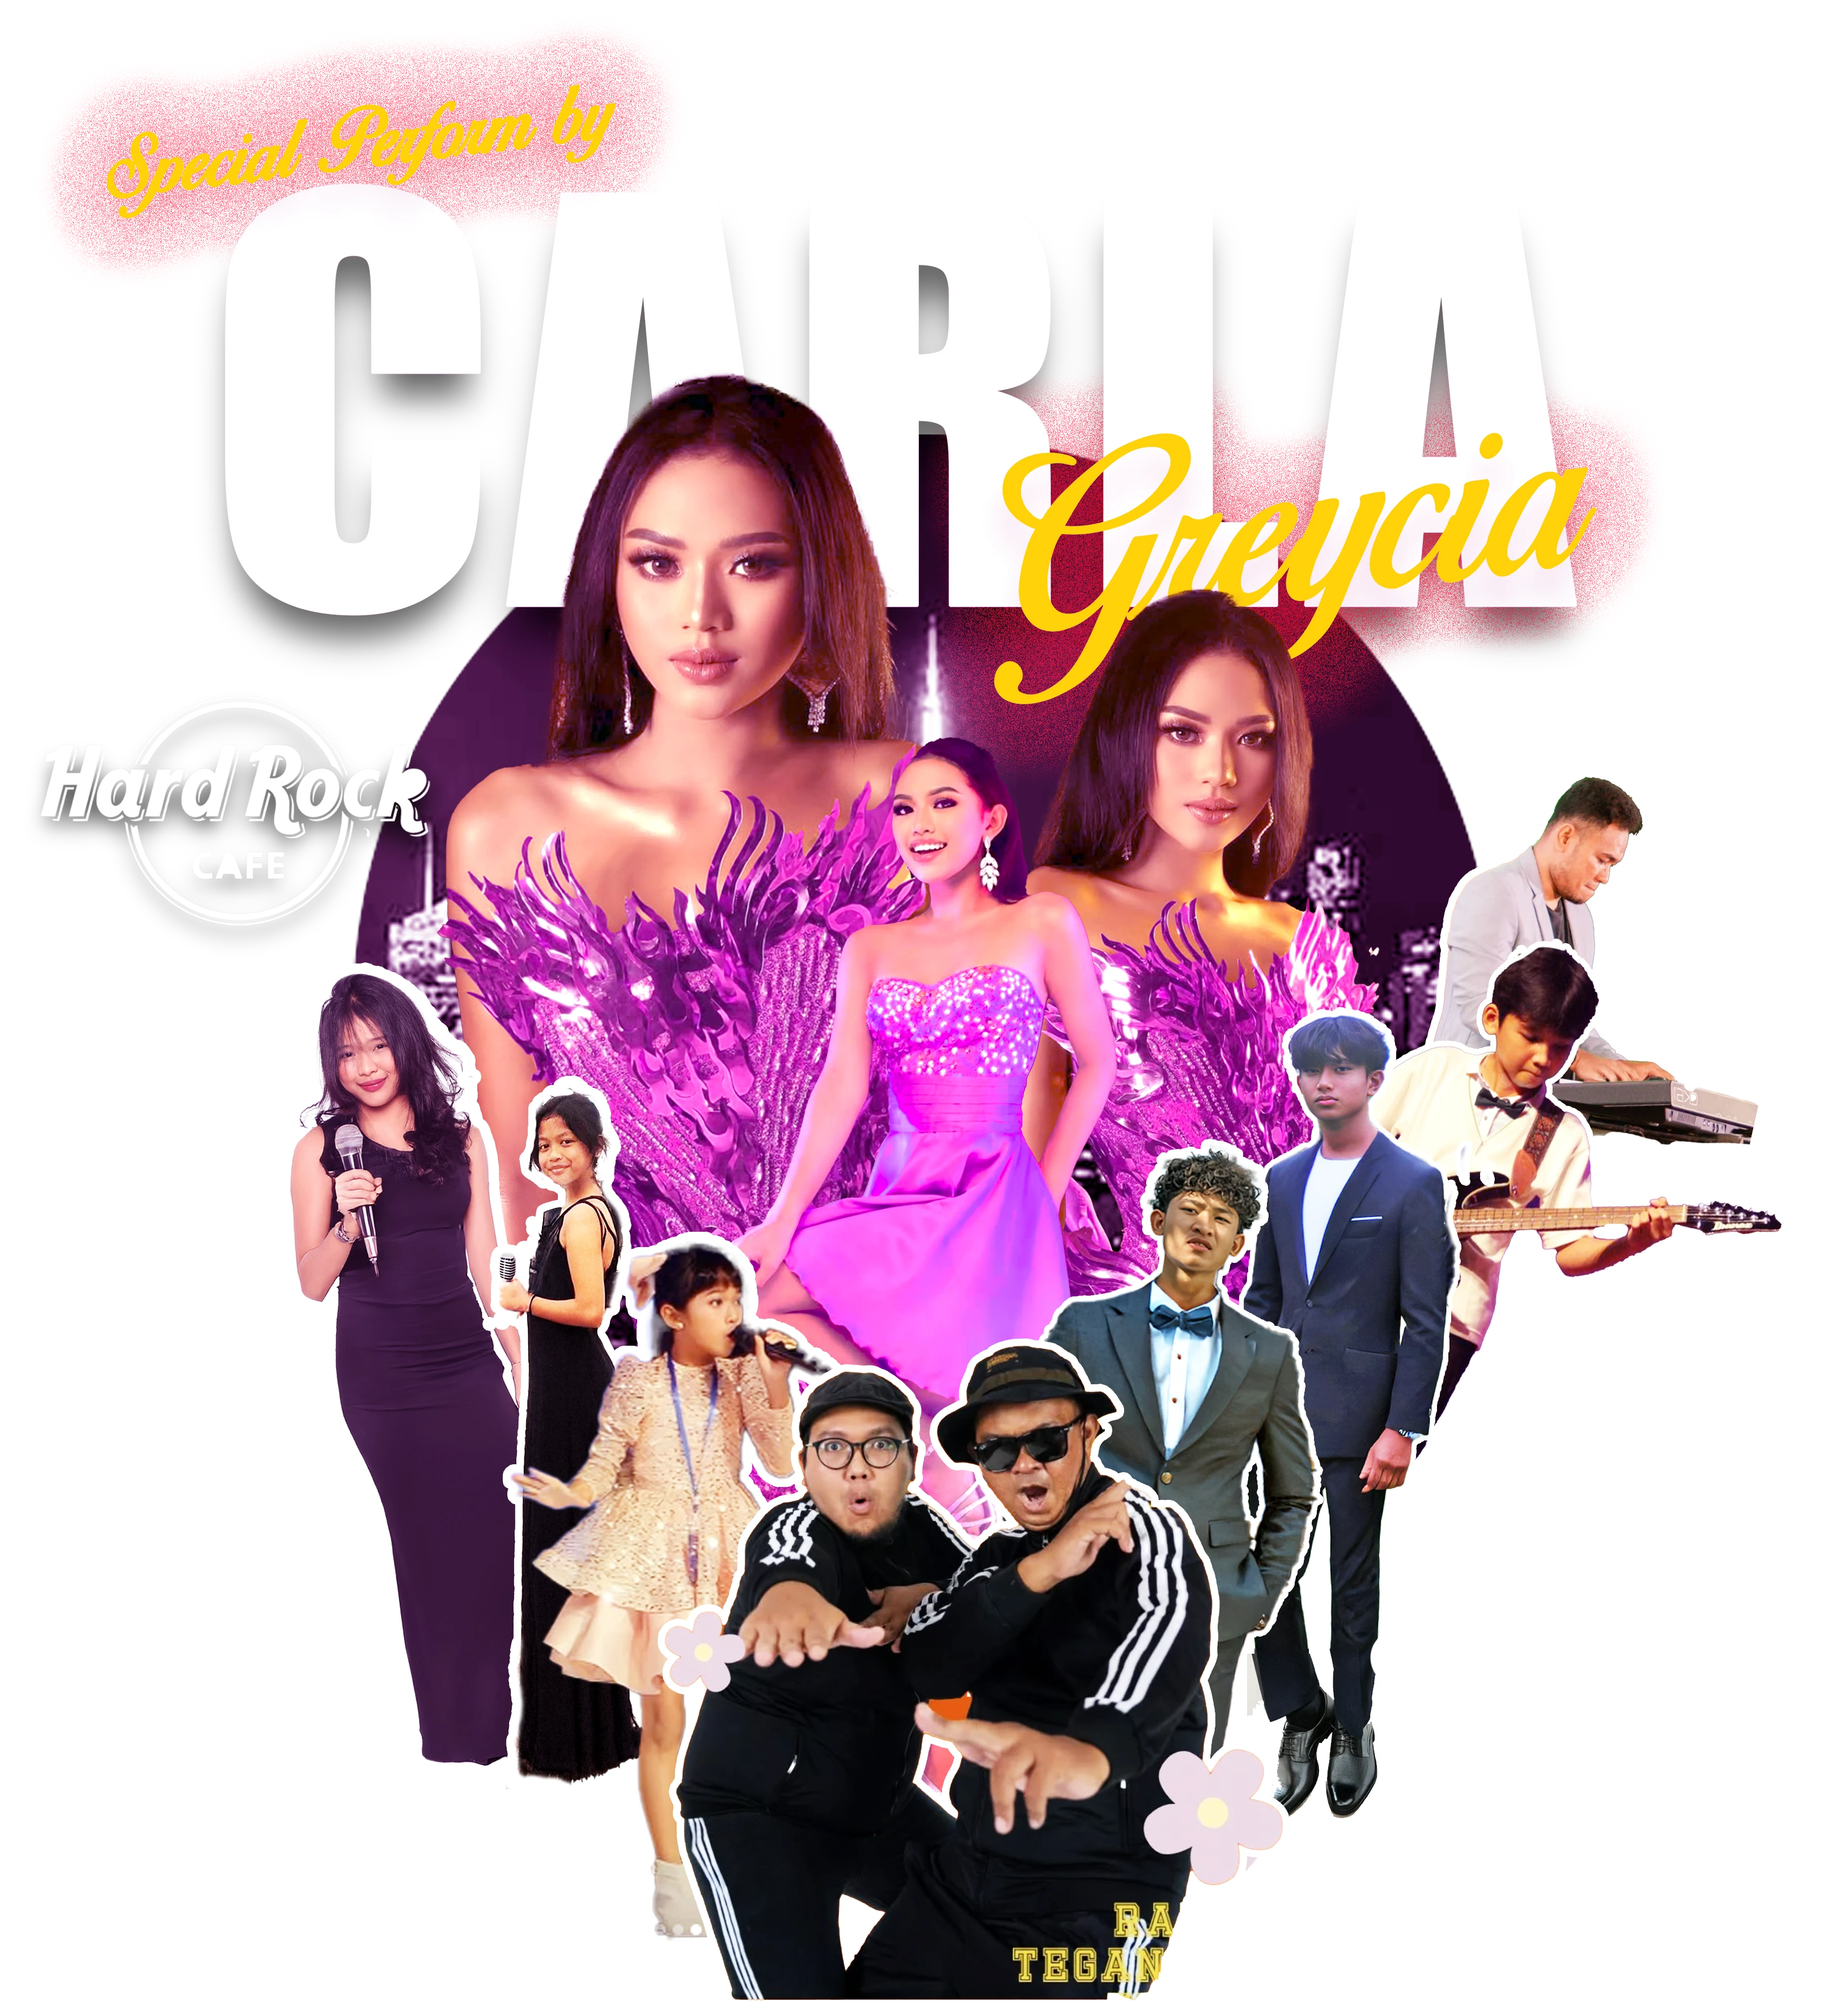
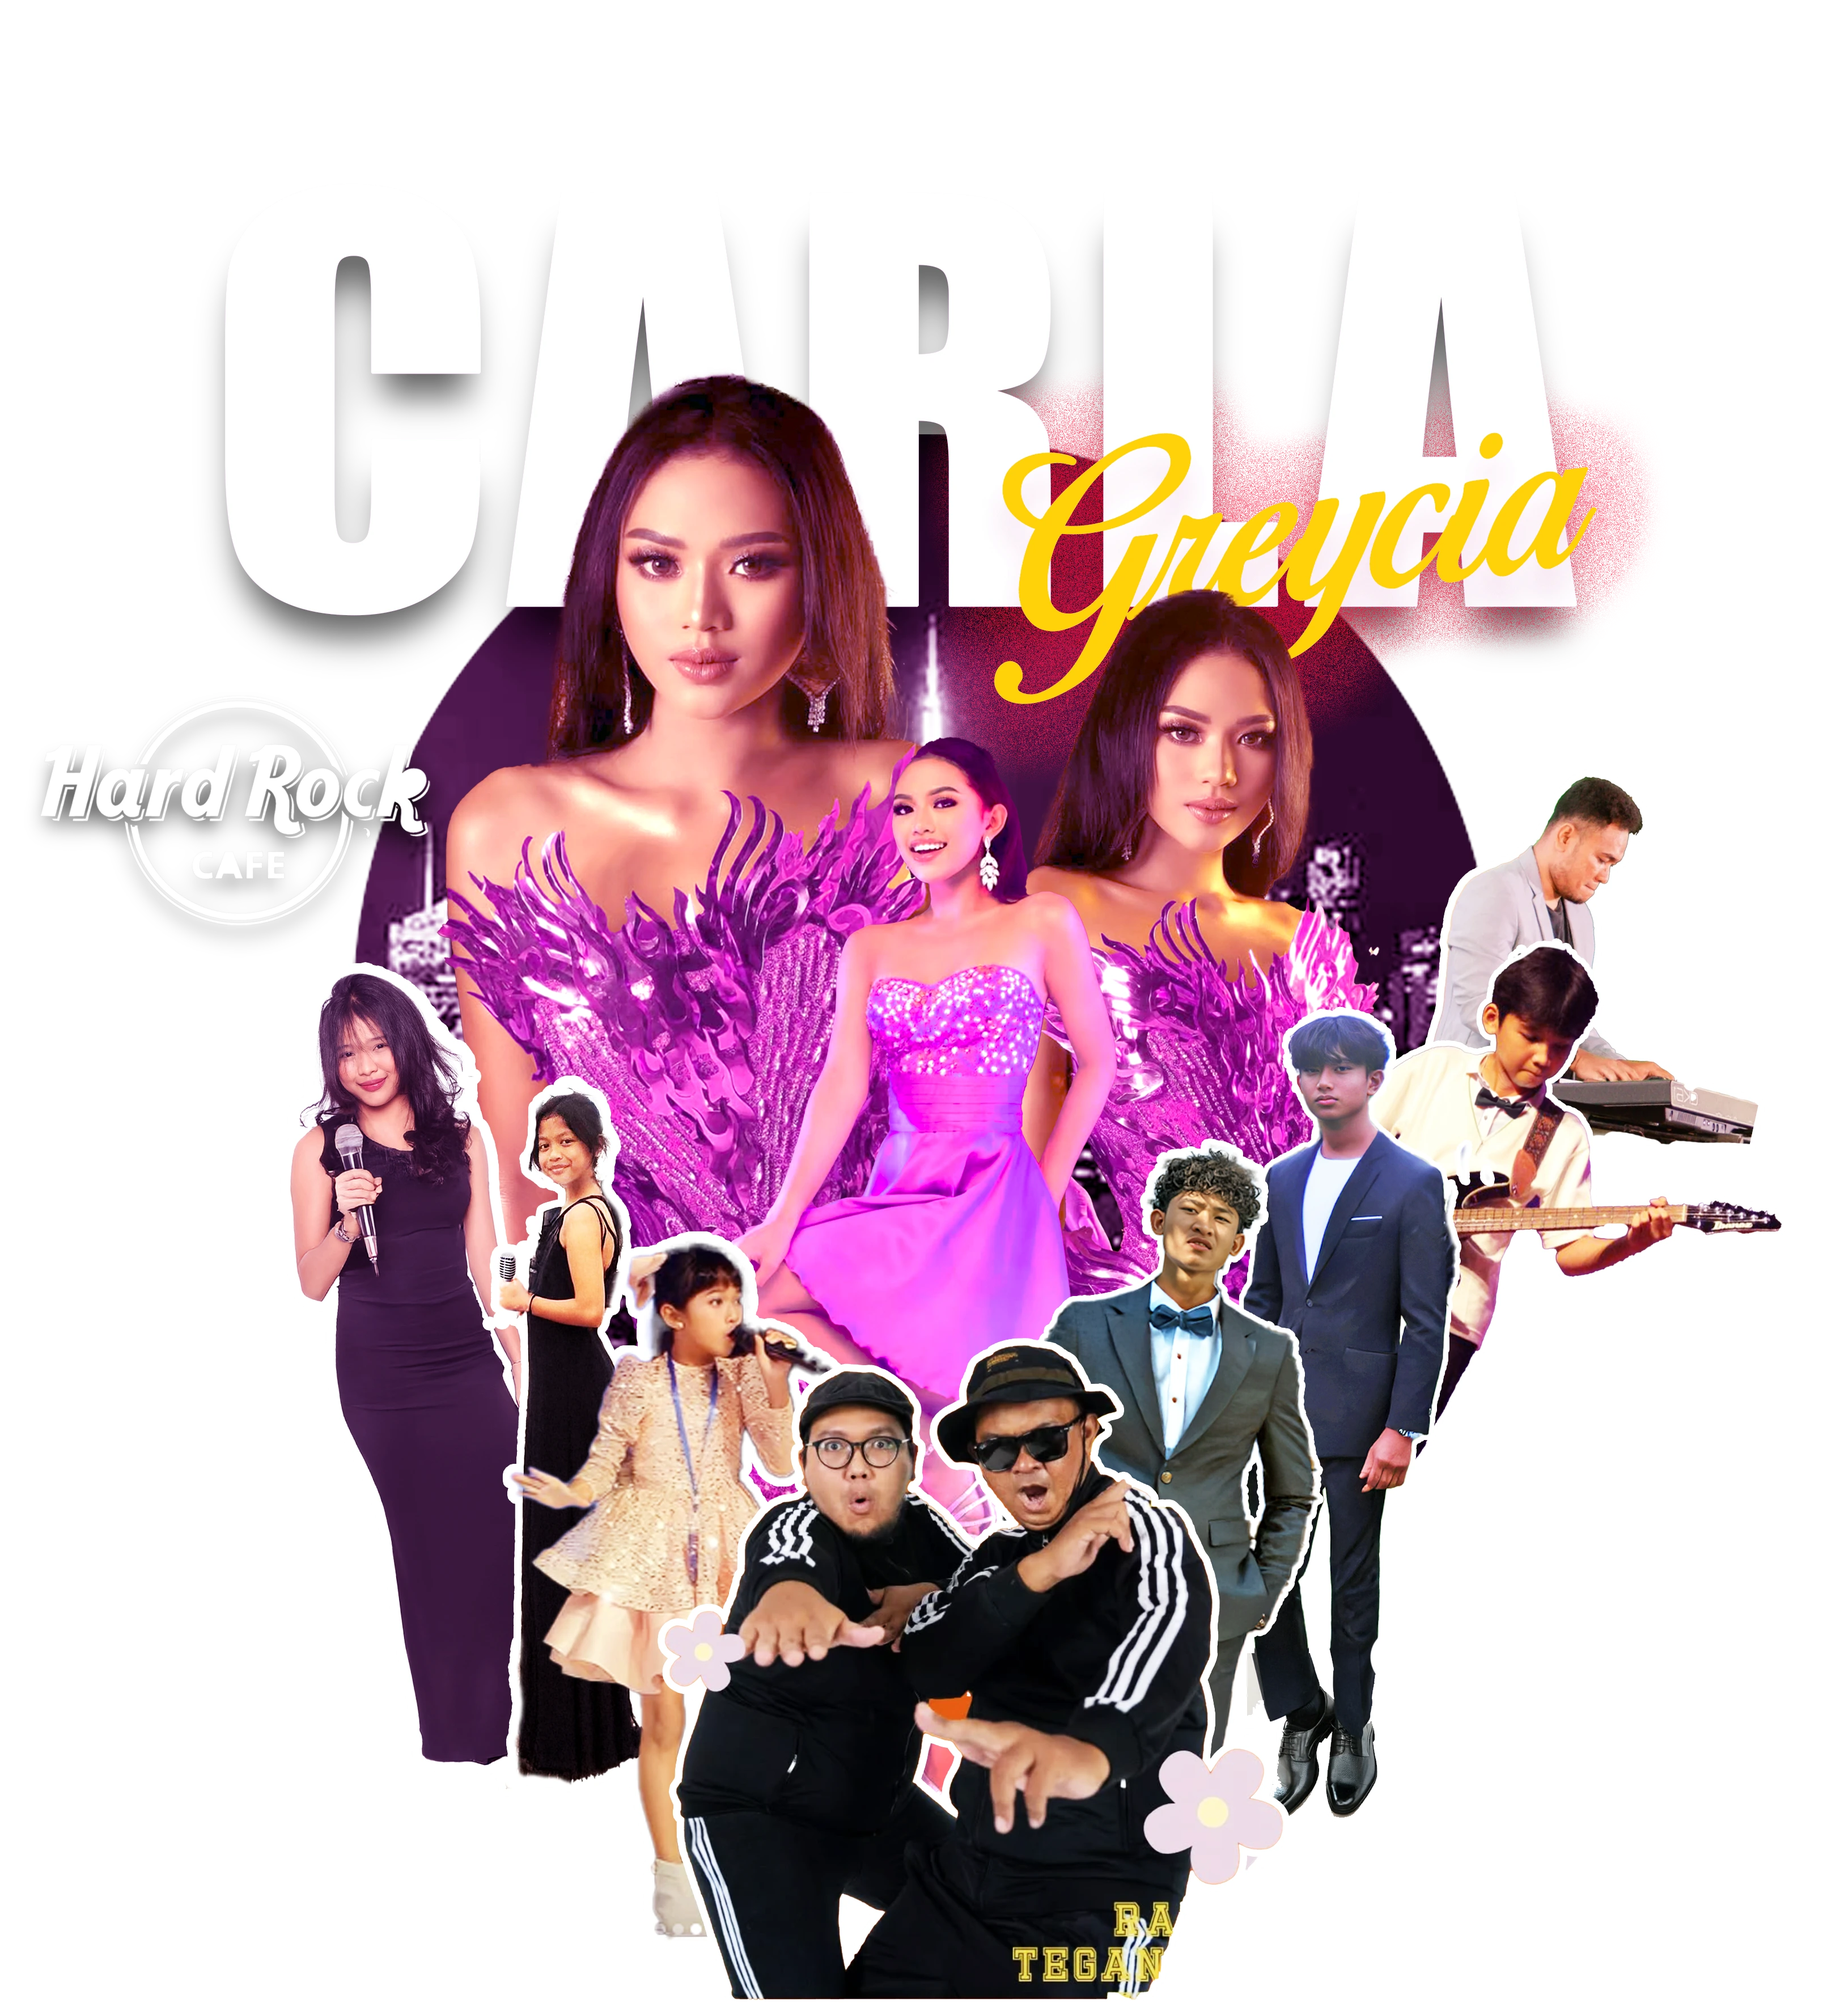
caca_ending -> caca_thanks; new lineup_presents image

diff --git a/components/venue-section.tsx b/components/venue-section.tsx
@@ -14,7 +14,7 @@ export default function VenueSection() {
 					/>
 				</div>
 				<div className="relative flex items-center justify-center flex-col lg:flex-row z-10 text-center text-yellow-300">
-					<div className="my-3">
+					<div className="my-3 lg:mx-4">
 						<Image
 							src={"/venue/the_gate.webp"}
 							height={150}
@@ -23,7 +23,7 @@ export default function VenueSection() {
 							className="rounded-2xl"
 						/>
 					</div>
-					<div className="my-3">
+					<div className="my-3 lg:mx-4">
 						<Image
 							src={"/venue/red_carpet_indoor.jpg"}
 							height={150}
@@ -32,7 +32,7 @@ export default function VenueSection() {
 							className="rounded-2xl"
 						/>
 					</div>
-					<div className="my-3">
+					<div className="my-3 lg:mx-4">
 						<Image
 							src={"/venue/hrcb-frontview.jpg"}
 							height={150}
@@ -41,7 +41,7 @@ export default function VenueSection() {
 							className="rounded-2xl"
 						/>
 					</div>
-					<div className="my-3">
+					<div className="my-3 lg:mx-4">
 						<Image
 							src={"/venue/panggung.jpg"}
 							height={150}

diff --git a/components/thanks-section.tsx b/components/thanks-section.tsx
@@ -1,6 +1,6 @@
 export default function ThanksSection() {
 	return (
-		<section className="relative flex min-h-screen flex-col items-center justify-center p-4 bg-[url('/caca_ending.webp')] bg-center bg-cover">
+		<section className="relative flex min-h-screen flex-col items-center justify-center p-4 bg-[url('/caca_thanks.webp')] bg-center bg-cover">
 			<div className="text-4xl mb-10">Thank You,</div>
 			<div className="text-4xl mb-2">See you on</div>
 			<div className="text-4xl">#CARLAGREYSHOW</div>
